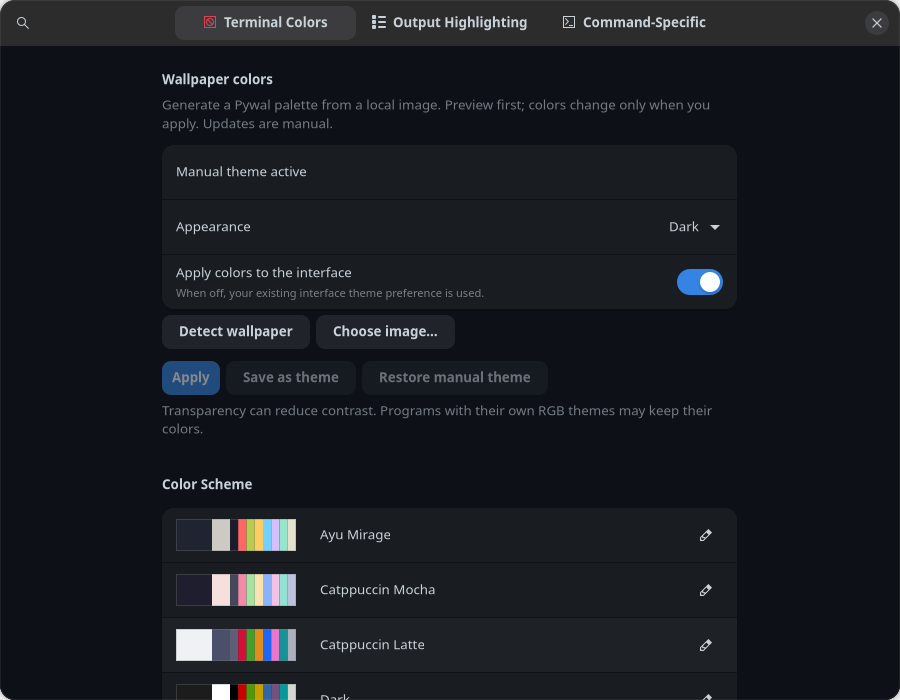
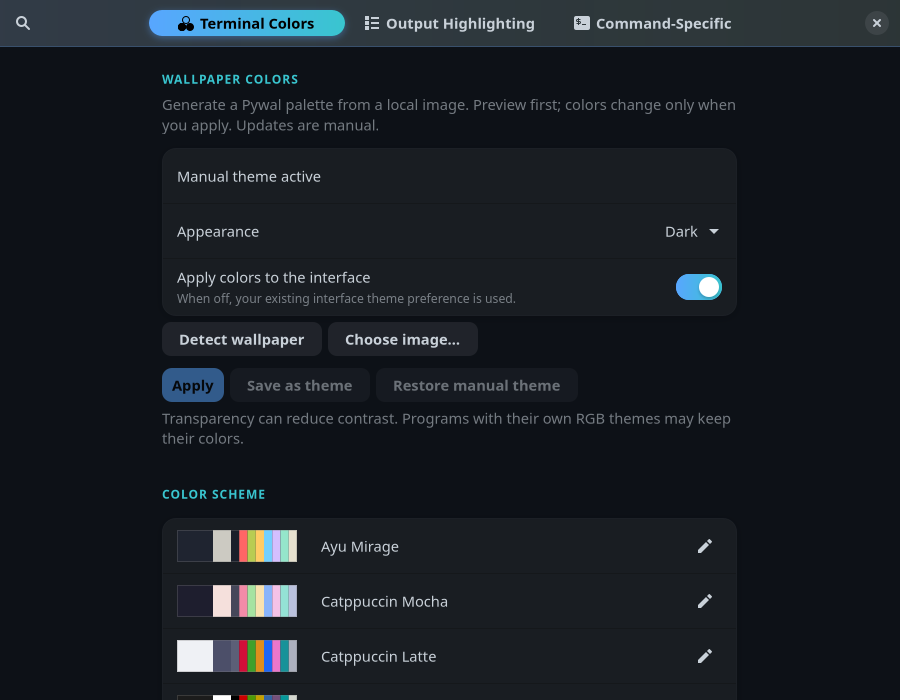
docs: refresh README and gallery screenshots after UX redesign
- Regenerate all gallery screenshots from the current UI
- Add sessions panel and command palette shots
- Restructure README: highlights, quick start, tour
- capture_gallery.py: run NON_UNIQUE, unrealize renderer, capture palette

diff --git a/scripts/capture_gallery.py b/scripts/capture_gallery.py
@@ -44,6 +44,7 @@ def capture_widget(widget, path: Path) -> None:
     renderer = Gsk.CairoRenderer()
     renderer.realize_for_display(Gdk.Display.get_default())
     texture = renderer.render_texture(node, None)
+    renderer.unrealize()
     path.parent.mkdir(parents=True, exist_ok=True)
     texture.save_to_png(str(path))
     print(f"wrote {path.name} ({path.stat().st_size} bytes, {width}x{height})")
@@ -119,7 +120,7 @@ def main() -> int:
         gi.require_version("Vte", "3.91")
         gi.require_version("Gdk", "4.0")
         gi.require_version("Gsk", "4.0")
-        from gi.repository import Adw, GLib
+        from gi.repository import Adw, Gio, GLib
 
         from zashterminal.app import ZashTerminalApp
         from zashterminal.sessions.models import SessionItem
@@ -133,6 +134,8 @@ def main() -> int:
 
         Adw.init()
         app = ZashTerminalApp()
+        # Do not forward to a running user instance.
+        app.set_flags(app.get_flags() | Gio.ApplicationFlags.NON_UNIQUE)
 
         def on_activate(application):
             settings = SettingsManager(config_home / "zashterminal" / "settings.json")
@@ -294,19 +297,23 @@ def main() -> int:
                     print(f"command manager skipped: {exc}")
 
                 try:
-                    window.split_view.set_show_sidebar(True)
-                    menu_btn = window.ui_builder.menu_button
-                    menu_btn.popup()
-                    pump(0.6)
-                    capture_widget(window, OUT / "13-main-menu.png")
-                    menu_btn.popdown()
+                    from zashterminal.ui.dialogs.command_palette_dialog import (
+                        CommandPalette,
+                    )
+
+                    palette = CommandPalette(window)
+                    palette.present(window)
+                    pump(0.8)
+                    capture_widget(window, OUT / "14-command-palette.png")
+                    palette.close()
+                    pump(0.2)
                 except Exception as exc:
-                    print(f"menu skipped: {exc}")
+                    print(f"palette skipped: {exc}")
 
                 try:
                     window.split_view.set_show_sidebar(True)
                     pump(0.3)
-                    capture_widget(window, OUT / "14-sessions-sidebar.png")
+                    capture_widget(window, OUT / "13-sessions-sidebar.png")
                 except Exception as exc:
                     print(f"sidebar skipped: {exc}")
             except Exception:

diff --git a/README.md b/README.md
@@ -5,7 +5,7 @@
 </p>
 
 <p align="center">
-  <b>A modern GTK4 terminal for developers, infrastructure, and system administration</b>
+  <b>The GTK4 terminal for people who live in SSH: sessions, files, search and AI in one window.</b>
 </p>
 
 <p align="center">
@@ -15,15 +15,38 @@
   <a href="https://ko-fi.com/leoberbert"><img src="https://img.shields.io/badge/Support-Ko--fi-ff5f5f.svg" alt="Ko-fi"></a>
 </p>
 
-Zashterminal combines a VTE terminal with session management, an integrated file manager, optional AI assistance, and workflow tools — built on GTK4 and libadwaita for a native Linux desktop experience.
+<p align="center">
+  <img src="docs/gallery/01-main-terminal.png" alt="Zashterminal main window" width="920">
+</p>
 
-**Supported installs:** Arch/Manjaro (AUR), Debian/Ubuntu, Fedora, openSUSE, Gentoo, NixOS. WSL (Ubuntu) is experimental.
+Zashterminal pairs a VTE terminal with session management, an integrated file manager, optional AI assistance and workflow tools. It is built on GTK4 and libadwaita for a native Linux desktop.
 
----
+## Why Zashterminal?
+
+| | |
+|---|---|
+| 🔌 **Sessions that stay organized** | Local, SSH and SFTP sessions in folders, with favorites and a live "Connected" list. |
+| ⌨ **Command palette** | `Ctrl+Shift+P` finds sessions, layouts, snippets, actions and preferences. |
+| 🪟 **Real multitasking** | Split panes, saved layouts, search across all tabs, broadcast to many panes. |
+| 📁 **Files next to your shell** | Local and remote browser with drag-and-drop and edit-and-upload. |
+| 🎨 **Readable output** | Highlight rules for 50+ commands and 30 color schemes. |
+| 🤖 **AI, only when you ask** | Multi-provider assistant; only text you send leaves your machine. |
+| 📥 **Easy migration** | Import SecureCRT, PuTTY, mRemoteNG and OpenSSH configs. |
+
+**Installs:** Arch/Manjaro (AUR), Debian/Ubuntu, Fedora, openSUSE, Gentoo, NixOS. WSL (Ubuntu) is experimental.
+
+## Quick start
+
+```bash
+curl -fsSL https://raw.githubusercontent.com/leoberbert/zashterminal/refs/heads/main/install.sh | bash
+zashterminal
+```
+
+Arch users: `yay -S zashterminal`. Other platforms: see [Installation](#installation).
 
 ## Table of contents
 
-- [Gallery](#gallery)
+- [Tour](#tour)
 - [Features](#features)
 - [Imports & PAM](#imports--pam)
 - [Requirements](#requirements)
@@ -35,61 +58,138 @@ Zashterminal combines a VTE terminal with session management, an integrated file
 
 ---
 
-## Gallery
+## Tour
 
-Screenshots live in [`docs/gallery/`](docs/gallery/) (regenerate with `PYTHONPATH=src python3 scripts/capture_gallery.py`).
+Screenshots live in [`docs/gallery/`](docs/gallery/). Regenerate them with `PYTHONPATH=src python3 scripts/capture_gallery.py`.
 
-### Home base
+### Sessions panel
 
-Main window with a live shell — sessions sidebar, tabs, and header actions for search, file manager, and AI.
+Search at the top, folders, favorites and a "Connected" section. It auto-hides after you open a session (configurable in Preferences).
 
 <p align="center">
-  <img src="docs/gallery/01-main-terminal.png" alt="Zashterminal main window" width="920">
+  <img src="docs/gallery/13-sessions-sidebar.png" alt="Sessions panel" width="880">
 </p>
 
-### Multi-pane ops layout
+### Command palette
 
-Split horizontally and vertically to watch logs, metrics, and an interactive shell in one tab.
+`Ctrl+Shift+P`: one search box for sessions, SFTP, layouts, commands, actions and preferences. Type `@` for sessions and layouts only, `>` for actions only.
 
 <p align="center">
-  <img src="docs/gallery/02-multipane.png" alt="Multi-pane terminal layout" width="920">
+  <img src="docs/gallery/14-command-palette.png" alt="Command palette" width="880">
+</p>
+
+### Multi-pane layouts
+
+Split horizontally and vertically to watch logs, metrics and a shell in one tab. Each pane has a "⋯" menu to move, split or close it.
+
+<p align="center">
+  <img src="docs/gallery/02-multipane.png" alt="Multi-pane terminal layout" width="880">
 </p>
 
 ### Integrated file manager
 
-Browse local (and remote/SFTP) directories under the terminal — size, permissions, owner, recursive filter.
+Browse local and remote (SFTP) directories under the terminal: size, permissions, owner, recursive filter.
 
 <p align="center">
-  <img src="docs/gallery/03-file-manager.png" alt="Terminal with integrated file manager" width="920">
+  <img src="docs/gallery/03-file-manager.png" alt="Terminal with integrated file manager" width="880">
 </p>
 
 ### Search across all tabs
 
-Find bar with **Case sensitive**, **Regex**, and **All tabs** — Next/Previous jumps between matching panes.
+Find bar with **Case sensitive**, **Regex** and **All tabs**. Next/Previous jumps between matching panes.
 
 <p align="center">
-  <img src="docs/gallery/04-search-all-tabs.png" alt="Global search across all tabs" width="920">
+  <img src="docs/gallery/04-search-all-tabs.png" alt="Global search across all tabs" width="880">
 </p>
 
 ### Broadcast a command
 
-Type once and send the same command to selected tabs/panes (with optional remembered selection).
+Type once and send to selected tabs or panes. Target panes get an orange outline and the bar lists who will receive the command.
 
 <p align="center">
-  <img src="docs/gallery/05-broadcast.png" alt="Broadcast command bar" width="920">
-</p>
-
-### Color schemes & wallpaper palettes
-
-Thirty built-in schemes plus Pywal wallpaper detection — preview before you apply.
-
-<p align="center">
-  <img src="docs/gallery/06-color-schemes.png" alt="Color scheme picker" width="920">
+  <img src="docs/gallery/05-broadcast.png" alt="Broadcast command bar" width="880">
 </p>
 
 ### Preferences
 
-Appearance, terminal behavior, profiles/backups, and advanced VTE options in a searchable Preferences window.
+Appearance, terminal behavior, profiles/backups and advanced VTE options, with search. See [Background blur](#background-blur).
+
+<p align="center">
+  <img src="docs/gallery/07-preferences.png" alt="Preferences appearance page" width="760">
+</p>
+
+### Color schemes
+
+Thirty built-in schemes plus Pywal wallpaper detection, with preview before applying.
+
+<p align="center">
+  <img src="docs/gallery/06-color-schemes.png" alt="Color scheme picker" width="620">
+</p>
+
+### Output highlighting
+
+Terminal colors, output rules and command-specific highlighting.
+
+<p align="center">
+  <img src="docs/gallery/09-highlight.png" alt="Highlight and terminal colors dialog" width="760">
+</p>
+
+### Session editor
+
+SSH/local sessions with folders, auth, post-login commands, forwards, favorite flag and per-session highlight overrides.
+
+<p align="center">
+  <img src="docs/gallery/10-session-edit.png" alt="Add or edit SSH session" width="620">
+</p>
+
+### AI assistant
+
+Optional multi-provider AI (Groq, Gemini, OpenRouter, Ollama / LM Studio). Only text you explicitly send is shared.
+
+<p align="center">
+  <img src="docs/gallery/08-ai-config.png" alt="AI assistant configuration" width="620">
+</p>
+
+### Command manager
+
+Reusable command snippets with icons and forms: insert, run, or open as a dialog.
+
+<p align="center">
+  <img src="docs/gallery/12-command-manager.png" alt="Command manager" width="880">
+</p>
+
+### Keyboard shortcuts
+
+Browse, search and customize accelerators; conflicts are flagged.
+
+<p align="center">
+  <img src="docs/gallery/11-shortcuts.png" alt="Keyboard shortcuts dialog" width="620">
+</p>
+
+---
+
+## Features
+
+| Area | What you get |
+|------|----------------|
+| **Sessions** | Local, SSH and SFTP sessions with folders, favorites, restore and layouts |
+| **Command palette** | `Ctrl+Shift+P` over sessions, layouts, commands, actions and preferences |
+| **Imports** | SecureCRT directory trees, PuTTY `.reg`/`.ini`, mRemoteNG `confCons.xml`, OpenSSH `~/.ssh/config` |
+| **Layouts** | Horizontal/vertical splits; save and restore multi-pane setups |
+| **File manager** | Local and remote browsing, drag-and-drop transfer, remote edit + upload on save |
+| **Search** | In-terminal find with case/regex; **All tabs** scope jumps across panes |
+| **Highlighting** | Output rules for 50+ commands; optional Pygments for `cat` / input |
+| **AI (optional)** | Multi-provider chat, quick prompts, click-to-run snippets (selection only) |
+| **Broadcast** | Type once; run across selected tabs/panes |
+| **Appearance** | 30 built-in schemes (default: GitHub Dark), transparency, blur, shortcuts |
+
+### Color schemes
+
+Default: **GitHub Dark**. Also included: Ayu Mirage, Catppuccin (Mocha / Latte), Dracula, Everforest, Gruvbox, Horizon, Kanagawa, Material Ocean, Monokai, Moonfly, Night Owl, Nord, One Dark Pro, Oxocarbon, Palenight, Rosé Pine, Solarized, Tokyo Night, VS Code Dark+, System Default, and light variants.
+
+Switch or customize from **Main menu → Colors & highlighting**.
+
+### Background blur
 
 Background blur is rendered live by the compositor: it follows window movement, resizing and changes behind the terminal without screenshots, hidden windows or capture permissions. Enable **Background Blur** and raise **Terminal Transparency** to see the effect. Transparency and blur strength are separate controls.
 
@@ -115,72 +215,6 @@ bash native/kwin-blur/build.sh --install-system
 Installation copies only the plugin; it does not restart KWin or change its global settings. Restart the terminal application to discover and load the effect. KWin's native API is private: rebuild and revalidate the effect after KWin/Qt upgrades; the helper rejects mismatched versions.
 
 Without the extension, standard Wayland background effects, older KDE Wayland blur, and the X11 KDE blur hint remain available when advertised by the compositor. Their strength belongs to the desktop, so the independent-strength slider is disabled with installation guidance. On unsupported compositors the blur switch is disabled too. Existing nonzero screenshot-blur amounts migrate to enabled; transparency is preserved.
-
-<p align="center">
-  <img src="docs/gallery/07-preferences.png" alt="Preferences appearance page" width="920">
-</p>
-
-### AI assistant
-
-Optional multi-provider AI (Groq, Gemini, OpenRouter, Ollama / LM Studio). Only text you explicitly send is shared.
-
-<p align="center">
-  <img src="docs/gallery/08-ai-config.png" alt="AI assistant configuration" width="920">
-</p>
-
-### Output highlighting
-
-Terminal colors, output rules, and command-specific highlighting for ops-friendly readability.
-
-<p align="center">
-  <img src="docs/gallery/09-highlight.png" alt="Highlight and terminal colors dialog" width="920">
-</p>
-
-### Session editor
-
-SSH/local sessions with folders, auth, post-login commands, forwards, and optional per-session highlight overrides.
-
-<p align="center">
-  <img src="docs/gallery/10-session-edit.png" alt="Add or edit SSH session" width="920">
-</p>
-
-### Keyboard shortcuts
-
-Browse and customize accelerators from the shortcuts dialog.
-
-<p align="center">
-  <img src="docs/gallery/11-shortcuts.png" alt="Keyboard shortcuts dialog" width="920">
-</p>
-
-### Command manager
-
-Reusable command snippets with icons and forms — insert, run, or open as a dialog.
-
-<p align="center">
-  <img src="docs/gallery/12-command-manager.png" alt="Command manager" width="920">
-</p>
-
----
-
-## Features
-
-| Area | What you get |
-|------|----------------|
-| **Sessions** | Local, SSH, and SFTP sessions with folders, restore, and layouts |
-| **Imports** | SecureCRT directory trees, PuTTY `.reg`/`.ini`, mRemoteNG `confCons.xml`, OpenSSH `~/.ssh/config` |
-| **Layouts** | Horizontal/vertical splits; save and restore multi-pane setups |
-| **File manager** | Local and remote browsing, drag-and-drop transfer, remote edit + upload on save |
-| **Search** | In-terminal find with case/regex; **All tabs** scope jumps across panes |
-| **Highlighting** | Output rules for 50+ commands; optional Pygments for `cat` / input |
-| **AI (optional)** | Multi-provider chat, quick prompts, click-to-run snippets — selection only |
-| **Broadcast** | Type once; run across selected tabs/panes |
-| **Appearance** | 30 built-in schemes (default: GitHub Dark), transparency, shortcuts |
-
-### Color schemes
-
-Default: **GitHub Dark**. Also included: Ayu Mirage, Catppuccin (Mocha / Latte), Dracula, Everforest, Gruvbox, Horizon, Kanagawa, Material Ocean, Monokai, Moonfly, Night Owl, Nord, One Dark Pro, Oxocarbon, Palenight, Rosé Pine, Solarized, Tokyo Night, VS Code Dark+, System Default, and light variants.
-
-Switch or customize from **Preferences → Terminal colors**.
 
 ---
 
